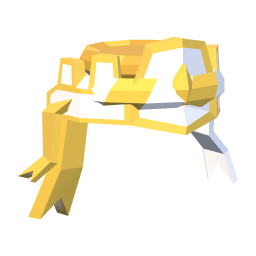
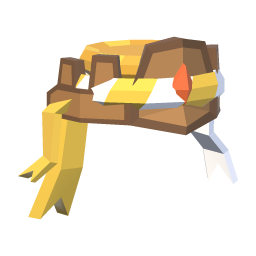
The class gear's crown in each line's own colors on the website's figure, as in the game (game 050772ec, ClassGearCrown): head attachment 7 on a Mage piece is silver with a mint green gem, on a Monk piece antique bronze with a carnelian; other lines keep their tier's colors. CROWNS in rf-character-g

Changed region(s): [[0.1562, 0.125, 0.875, 0.5312]]

diff --git a/src/RavenNest.Blazor/wwwroot/js/rf-character-gear.js b/src/RavenNest.Blazor/wwwroot/js/rf-character-gear.js
@@ -57,6 +57,19 @@ const HEAD_TYPES = new Set([Type.Helmet, Type.Mask, Type.Hat, Type.HeadCovering]
 // the body's own parts, by what they are: a piece of armor takes the place of the ones of its kind
 const BODY_KIND = /^Chr_(Torso|ArmUpperRight|ArmUpperLeft|ArmLowerRight|ArmLowerLeft|HandRight|HandLeft|Hips|LegLeft|LegRight)_/;
 
+// The crown (head attachment 7) in a gear line's own metal and gem: the game's ClassGearCrown, change both together.
+// With the Mage's and the Monk's tier colors it came out the same gold crown as the Tank's Aegis. The shader paints its
+// band in the plate color, its rims and points in the metal trim, the gem in the cloth trim. Other lines keep their
+// tier's own colors.
+const CROWN = 7;
+const CROWNS = [
+    // Mage: silver, the gem the mint green of the Starcaller robe's glow
+    { names: ['Apprentice', 'Adept', 'Conjurer', 'Sorcerer', 'Warlock', 'Archmage', 'Voidweaver', 'Starcaller'], band: '#9EA8B6', rims: '#E2E7EE', gem: '#6CF0A4' },
+    // Monk: antique bronze with a carnelian
+    { names: ['Novice', 'Disciple', 'Ascetic', 'Sage', 'Mystic', 'Enlightened', 'Transcendent', 'Celestial'], band: '#A8773F', rims: '#6E4A26', gem: '#E0642A' },
+];
+const crownOf = name => CROWNS.find(c => c.names.includes(name)) || null;
+
 function modelIds(text) {
     // "27,20,20,0": the main part first (the game's ItemManager.ParseModelIds). A token of -1000 or less names a part
     // games before 0.9.7 do not have: -(1000 * (position + 1) + index) takes that position's place (the Dark Fortress
@@ -179,7 +192,7 @@ function dress(g, m, a, outfit) {
                 // a helmet is a whole head of its own and hides everything unless it says what; a hat sits on the head
                 let hides = mask & Hides.All;
                 if (piece.type === Type.Helmet && hides === 0) hides = Hides.All;
-                head = { file, mat, hides, hat: from === 'hats' ? index : -1, attachments: more.map(i => at('headAttachments', i)).filter(Boolean) };
+                head = { file, mat, hides, hat: from === 'hats' ? index : -1, attachments: more.map(i => ({ file: at('headAttachments', i), crown: i === CROWN })).filter(x => x.file) };
                 break;
             }
 
@@ -196,7 +209,7 @@ function dress(g, m, a, outfit) {
     // the helmet toggle (!toggle helmet): a head piece that is switched off shows nothing and hides nothing
     if (head && outfit.helmet !== false) {
         if (head.file) groups.set('head', { file: head.file, mat: head.mat });
-        for (const f of head.attachments) extra.push({ file: f, mat: head.mat });
+        for (const f of head.attachments) extra.push({ file: f.file, mat: f.crown && head.mat && crownOf(head.mat) ? head.mat + '|crown' : head.mat });
         hide.head = !!(head.hides & Hides.Head);
         hide.brows = !!(head.hides & Hides.Brows);
         hide.beard = !!(head.hides & Hides.Beard);
@@ -548,9 +561,17 @@ export async function attach(designer, stage, onBusy) {
 
     const materials = new Map();
     const materialOf = (name, skin) => {
-        const info = name ? g.materials[name] : null;
+        // "<tier>|crown": the tier's material with its line's crown colors (CROWNS)
+        const crown = name && name.endsWith('|crown') ? crownOf(name.slice(0, -6)) : null;
+        const base = crown ? name.slice(0, -6) : name;
+        let info = base ? g.materials[base] : null;
         // no material of its own (a look without a tier): the body's
         if (!info) return stage.material;
+        if (crown) {
+            const c = info.c.slice();
+            c[C.metal1] = crown.band; c[C.metal2] = crown.rims; c[C.secondary] = crown.gem;
+            info = { ...info, c };
+        }
         const key = name + (skin ? '|skin' : '');
         if (!materials.has(key)) {
             const mat = gearMaterial(THREE, g, m, info);
